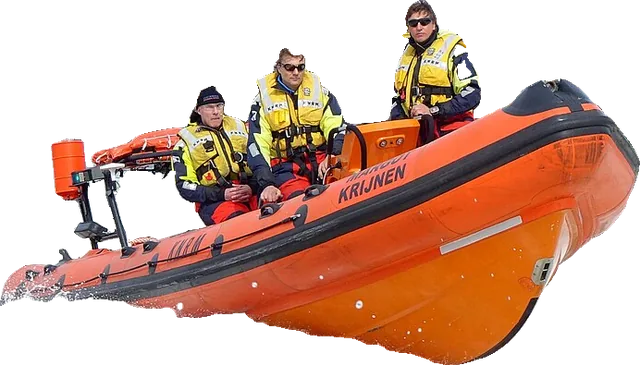
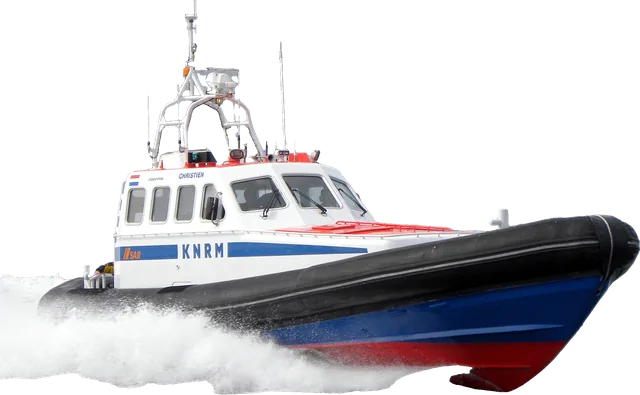
Add a dienstbus photo for fire types 0 and 2; lifeboat photo without crew

diff --git a/src/vehicle_types.py b/src/vehicle_types.py
@@ -191,9 +191,14 @@ STOCK_IMAGES: dict[str, dict[str, str]] = {
         "source": "https://commons.wikimedia.org/wiki/File:Lifeliner_2_na_een_inzet.jpg",
     },
     "reddingboot": {
-        "author": "kees torn",
-        "license": "CC BY-SA 2.0",
-        "source": "https://commons.wikimedia.org/wiki/File:Open_dag_KNRM_Hoek_van_Holland_30-4-2016._(26126938383).jpg",
+        "author": "Joost J. Bakker IJmuiden",
+        "license": "CC BY 2.0",
+        "source": "https://commons.wikimedia.org/wiki/File:KNRM_Christien.jpg",
+    },
+    "dienstbus": {
+        "author": "Alf van Beem",
+        "license": "CC0",
+        "source": "https://commons.wikimedia.org/wiki/File:VW_Brandweer_35-GTK-7_Zwanenburg.JPG",
     },
     "politie": {
         "author": "Joost J. Bakker",
@@ -226,9 +231,9 @@ CATEGORY_STOCK_IMAGES: dict[str, str] = {
 # The type digit tells the kind of vehicle even when the abbreviation doesn't.
 _FIRE_NUMBER_RE = re.compile(r"^\d{2}-\d{2}(\d)\d$")
 FIRE_TYPE_STOCK_IMAGES: dict[str, str] = {
-    "0": "officier",  # Personenvervoer (dienstauto, dienstbus)
+    "0": "dienstbus",  # Personenvervoer (dienstauto, dienstbus)
     "1": "waterongevallen",  # Waterongevallen
-    "2": "hulpverlening",  # Ongeval gevaarlijke stoffen
+    "2": "dienstbus",  # Ongeval gevaarlijke stoffen (mostly vans: WVD, AGS, meetploeg)
     "3": "tankautospuit",  # Tankautospuit
     "4": "tankautospuit",  # TS voor bos/duinbrandbestrijding
     "5": "ladder",  # Redmaterieel (autoladder, hoogwerker)

diff --git a/CHANGELOG.md b/CHANGELOG.md
@@ -2,7 +2,7 @@
 
 ## 1.2.5
 
-- Real photos for vehicles without an uploaded photo: tankautospuit, autoladder, hulpverlening, haakarm, schuimblus, waterongevallen, officier van dienst, ambulance, traumahelikopter, KNRM reddingboot and politie. Freely licensed photos from Wikimedia Commons, cut out (transparent background) with a "MELDKAMER" licence plate, credited under the photo (see `src/vehicle_images/CREDITS.md`).
+- Real photos for vehicles without an uploaded photo: tankautospuit, autoladder, hulpverlening, haakarm, schuimblus, waterongevallen, officier van dienst, dienstbus (also used for gevaarlijke stoffen units), ambulance, traumahelikopter, KNRM reddingboot and politie. Freely licensed photos from Wikimedia Commons, cut out (transparent background) with a "MELDKAMER" licence plate, credited under the photo (see `src/vehicle_images/CREDITS.md`).
 - Fire brigade numbers pick the photo from their type digit (Nationaal Nummerplan Brandweer: RR-KKTV, e.g. 11-0293 is type 9, an OvD car), so the right vehicle shows even when the message's abbreviation says otherwise.
 - Your own uploaded photos (per vehicle number or category) still come first.
 

diff --git a/src/vehicle_images/CREDITS.md b/src/vehicle_images/CREDITS.md
@@ -16,5 +16,6 @@ Edited versions of CC BY-SA photos are shared under the same licence.
 | `officier.webp` | Alf van Beem | Public domain | [Commons](https://commons.wikimedia.org/wiki/File:Nissan_Brandweer_Kennemerland_Officier_van_Dienst_unit_12-1293_foto_2.JPG) |
 | `ambulance.webp` | Joost J. Bakker IJmuiden | CC BY 2.0 | [Commons](https://commons.wikimedia.org/wiki/File:Kennemerland_Mercedes_Benz_Sprinter_Ambulance_12-511.jpg) |
 | `helikopter.webp` | BoasB112 | CC BY-SA 4.0 | [Commons](https://commons.wikimedia.org/wiki/File:Lifeliner_2_na_een_inzet.jpg) |
-| `reddingboot.webp` | kees torn | CC BY-SA 2.0 | [Commons](https://commons.wikimedia.org/wiki/File:Open_dag_KNRM_Hoek_van_Holland_30-4-2016._(26126938383).jpg) |
+| `reddingboot.webp` | Joost J. Bakker IJmuiden | CC BY 2.0 | [Commons](https://commons.wikimedia.org/wiki/File:KNRM_Christien.jpg) |
+| `dienstbus.webp` | Alf van Beem | CC0 | [Commons](https://commons.wikimedia.org/wiki/File:VW_Brandweer_35-GTK-7_Zwanenburg.JPG) |
 | `politie.webp` | Joost J. Bakker | CC BY 2.0 | [Commons](https://commons.wikimedia.org/wiki/File:BMW_X1_Politie.jpg) |
